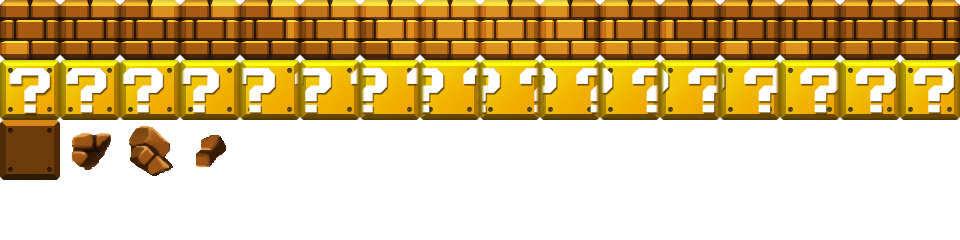
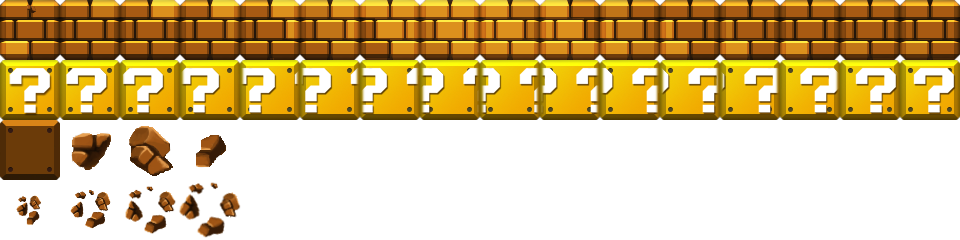
블럭 부서지는 모션

Changed region(s): [[0.0, 0.7583, 0.25, 0.9917]]

diff --git a/stage1_1.py b/stage1_1.py
@@ -272,7 +272,6 @@ class player:
     depence = False
     depencetime = 0
 
-
     def __init__(self, x, y):
         self.x = x
         self.y = y
@@ -362,9 +361,9 @@ class player:
 
 
         if self.die == True and int(self.frame) <= 2:                                        # 떨어지는 이미지
-            self.diedown -= 0.2
+            self.diedown -= 0.2 * game_framework.frame_time
         elif self.die == True and int(self.frame) <= 6:
-            self.diedown += 1
+            self.diedown += 1 * game_framework.frame_time
 
         if self.die == True and int(self.frame) == 7:                               # 죽으면 초기화
             life -= 1
@@ -389,13 +388,13 @@ class player:
                 self.jumpTime = 0.0
                 self.jumpcount = 2
 
-        if self.dir != 0 and self.plus_move < 0.8:
-            self.plus_move += 0.0015
-            if self.plus_move > 0.8:
-                self.plus_move = 0.8
+        if self.dir != 0 and self.plus_move < 250:
+            self.plus_move += 400 * game_framework.frame_time
+            if self.plus_move > 250:
+                self.plus_move = 250
 
         elif self.dir == 0 and self.plus_move > 0:
-            self.plus_move -= 0.002
+            self.plus_move -= 800 * game_framework.frame_time
             if self.plus_move < 0:
                 self.plus_move = 0
 
@@ -408,9 +407,9 @@ class player:
             self.x = 30
         else:
             if self.fast and self.dir != 0:  # 대시 on
-                self.x += (self.dir * 0.2) + (self.dir2 * self.plus_move)
+                self.x += ((self.dir * 0.2) + (self.dir2 * self.plus_move)) * game_framework.frame_time
             else:  # 대시 off
-                self.x += self.dir2 * self.plus_move
+                self.x += self.dir2 * self.plus_move * game_framework.frame_time
         self.Ground = False
 
         for i in b:
@@ -422,8 +421,8 @@ class player:
         if self.Ground == False:
             self.savey = 0
             if self.Jumping == False:
-                self.y -= 0.2 + self.downpower
-                self.downpower += 0.025
+                self.y -= (1000 + self.downpower) * game_framework.frame_time
+                self.downpower += 1000 * game_framework.frame_time
 
         for i in b:                         # 블럭 충돌
             if self.size == 60:
@@ -751,9 +750,53 @@ class Block:                         # 블럭
             if self.top == self.top2:
                 self.notused = 3
                 if self.kind == 2:
-                    self.notused = 0
+                    bb.append(BBlock(self.left2,self.right2,self.top2,self.bottom2))
+                    b.remove(self)
                 if self.kind == 3:
                     self.used = True
+
+class BBlock:                         # 블럭
+
+    global bmx
+    left = 0
+    right = 0
+    top = 0
+    bottom = 0
+    kind = 0
+    frame = 0
+    used = False
+    notused = 0
+    diespeed = 0
+
+
+    def __init__(self, left, right, top, bottom):
+        self.left = left
+        self.right = right
+        self.left2 = left
+        self.right2 = right
+        self.top = top
+        self.bottom = bottom
+
+    def draw(self):
+        brick.clip_draw(int(self.frame) * 60, 0, 60, 60, self.left+(self.right-self.left)/2, self.bottom+(self.right-self.left)/2, self.right-self.left+10, self.top-self.bottom+10)
+
+
+
+    def update(self):
+        self.frame = (self.frame + 0.03) % 16
+        if self.frame > 3:
+            self.frame = 3
+            self.diespeed += 10 * game_framework.frame_time
+        if self.top < 0:
+            bb.remove(self)
+        self.left = self.left2+bmx
+        self.right = self.right2+bmx
+
+    def move(self):
+        if self.frame == 3:
+            self.top -= self.diespeed
+            self.bottom -= self.diespeed
+
 
 def crush(A,B):
     if A.top > B.bottom and A.bottom < B.top and A.right > B.left and A.left < B.left:
@@ -778,19 +821,19 @@ def backmove():
     if sonic.dir == 1:
         if bmx > -(2357*2.3)+60 and sonic.x > 400:
             if sonic.x - 0.6 <= 400:
-                bmx -= sonic.plus_move
+                bmx -= sonic.plus_move* game_framework.frame_time
             else:
-                bmx -= sonic.plus_move*2
-            sonic.x -= sonic.plus_move*2
+                bmx -= sonic.plus_move*2* game_framework.frame_time
+            sonic.x -= sonic.plus_move*2* game_framework.frame_time
             if sonic.x < 400:
                 sonic.x = 400
     elif sonic.dir == -1:
         if bmx < 0 and sonic.x < 600:
             if sonic.x - 0.6 >= 600:
-                bmx += sonic.plus_move
+                bmx += sonic.plus_move* game_framework.frame_time
             else:
-                bmx += sonic.plus_move*2
-            sonic.x += sonic.plus_move*2
+                bmx += sonic.plus_move*2* game_framework.frame_time
+            sonic.x += sonic.plus_move*2* game_framework.frame_time
             if sonic.x > 600:
                 sonic.x = 600
 
@@ -798,7 +841,7 @@ def draw_back():                                   # 배경 그리기
     stage1_1.clip_draw(0, 0, 2357, 314, 1178.5*2.7+bmx, 157*2.7+bmy, 2357*2.7, 314*2.7)
 
 def enter():
-    global sonic, b, wm, ite, fb
+    global sonic, b, wm, ite, fb, bb
     global WIDTH, HEIGHT, frame, x, y, walk_monster, point, coin, firesonic, point, money
     global sonic_sprite, stage1_1, num, score, it, star, fly_monster, brick,bmx,bmy
 
@@ -842,6 +885,7 @@ def enter():
            item(3400, 170, 0),item(3430, 215, 0),item(3460, 215, 0),item(3490, 170, 0),
            item(5100, 225, 0),item(5110, 215, 0),item(5110, 235, 0),item(5120, 205, 0),item(5120, 245, 0),item(5140, 225, 0),item(5130, 215, 0),item(5130, 235, 0),]
     fb = []
+    bb = []
 
     sonic = player(30, 60)
     bmx = 0
@@ -942,6 +986,9 @@ def update():
     for i in fb:
         i.update()
         i.move()
+    for i in bb:
+        i.update()
+        i.move()
     if life == 0:
         game_framework.change_state(GameOver)
 
@@ -956,6 +1003,8 @@ def draw():
     for i in ite:
         i.draw()
     for i in fb:
+        i.draw()
+    for i in bb:
         i.draw()
     if sonic.depencetime % 2 == 0:
         sonic.draw()

diff --git a/game_framework.py b/game_framework.py
@@ -1,3 +1,6 @@
+import time
+frame_time = 0.0
+
 class GameState:
     def __init__(self, state):
         self.enter = state.enter
@@ -87,10 +90,15 @@ def run(start_state):
     running = True
     stack = [start_state]
     start_state.enter()
+    global frame_time
+    current_time = time.time()
     while (running):
         stack[-1].handle_events()
         stack[-1].update()
         stack[-1].draw()
+        frame_time = time.time() - current_time
+        current_time += frame_time
+
     # repeatedly delete the top of the stack
     while (len(stack) > 0):
         stack[-1].exit()
